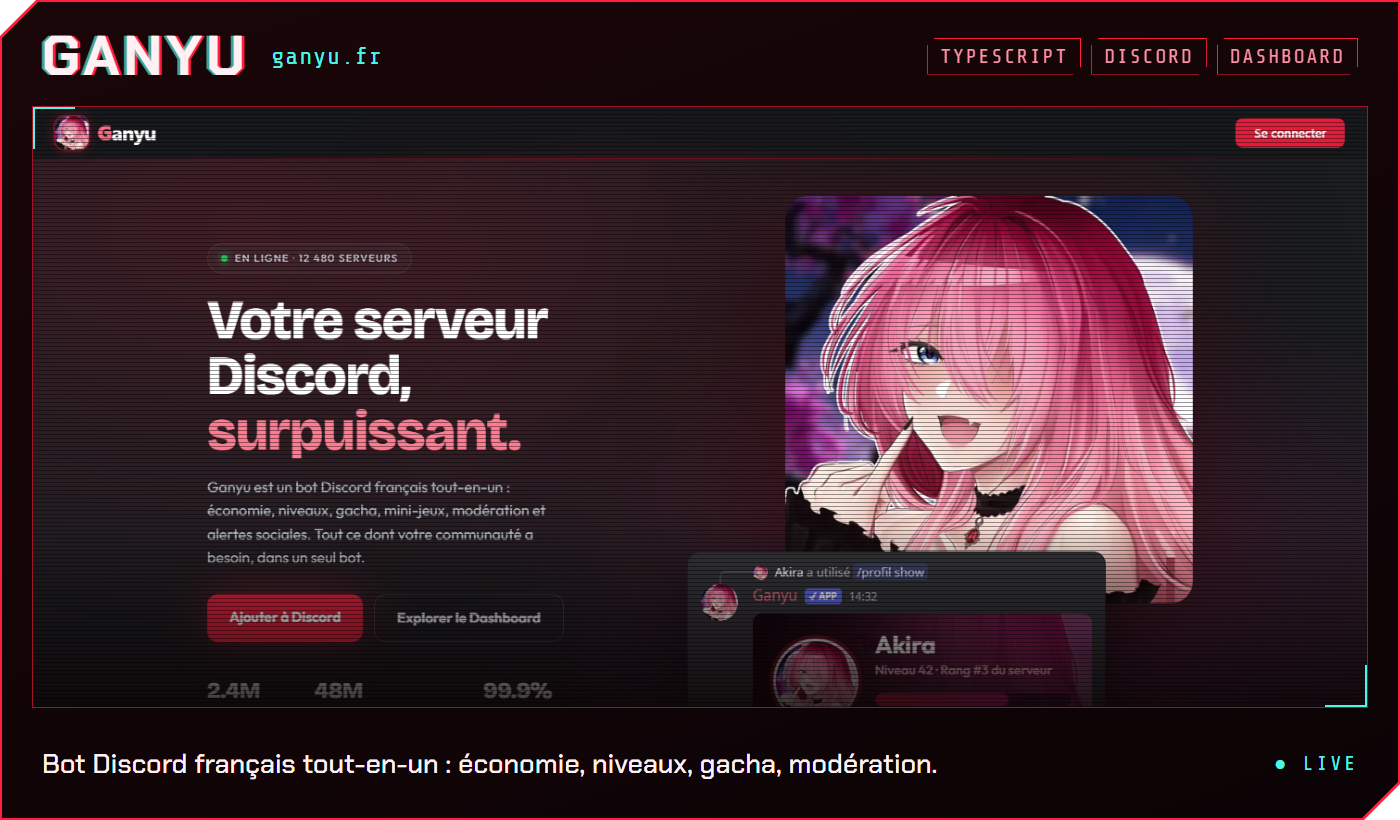
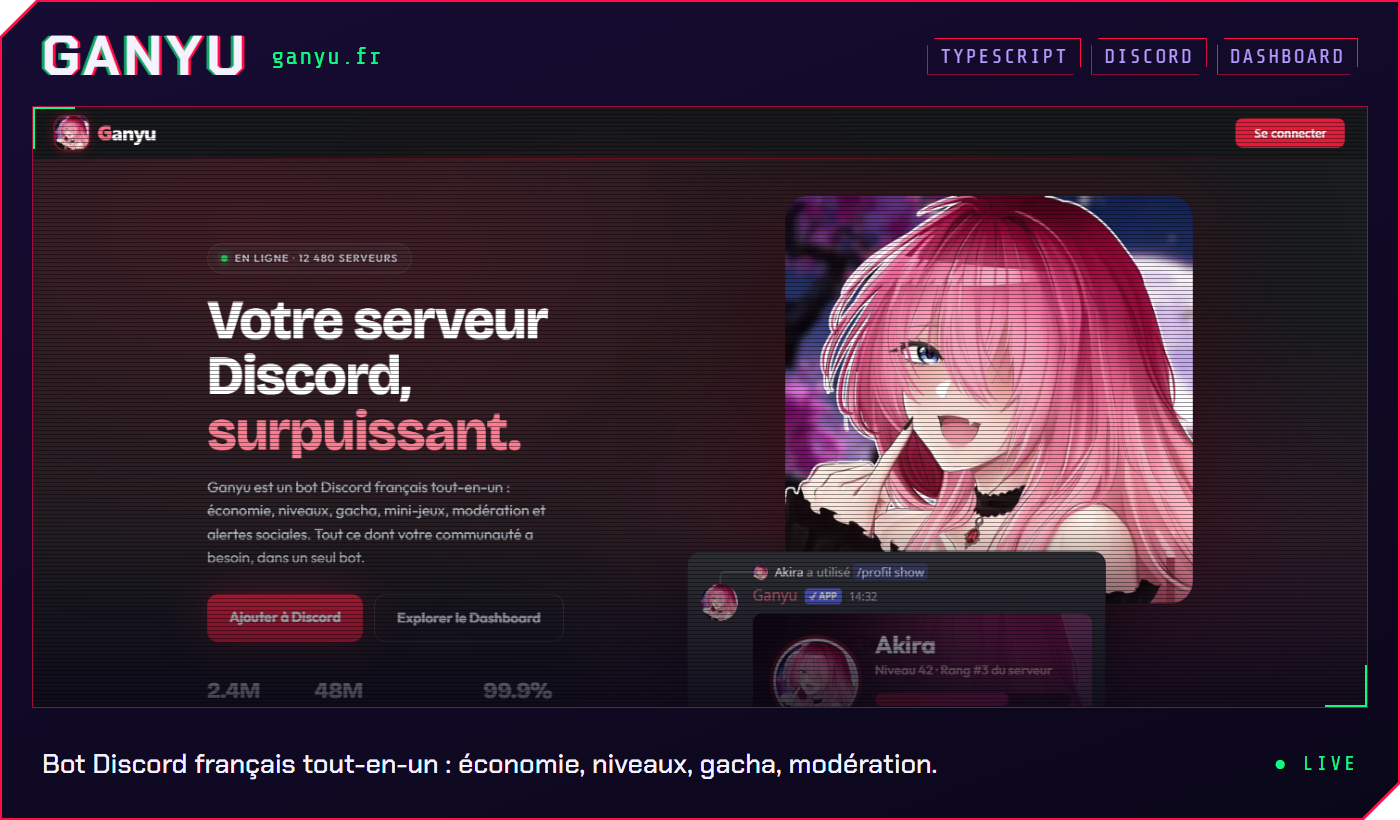
style: recolor project cards to new palette (purple/neon green)

Changed region(s): [[0.0, 0.0, 1.0, 1.0], [0.9214, 0.9146, 0.9829, 0.9451]]

diff --git a/README.md b/README.md
@@ -11,15 +11,15 @@
 <img src="assets/section-projets.svg?v=5" alt="Projets" width="100%" />
 
 <p align="center">
-  <a href="https://ganyu.fr"><img src="assets/project-ganyu.png?v=5" alt="ganyu.fr — Bot Discord français tout-en-un" width="100%" /></a>
+  <a href="https://ganyu.fr"><img src="assets/project-ganyu.png?v=6" alt="ganyu.fr — Bot Discord français tout-en-un" width="100%" /></a>
 </p>
 
 <p align="center">
-  <a href="https://karamon.fr"><img src="assets/project-karamon.png?v=5" alt="karamon.fr — Serveur Minecraft Cobblemon francophone" width="100%" /></a>
+  <a href="https://karamon.fr"><img src="assets/project-karamon.png?v=6" alt="karamon.fr — Serveur Minecraft Cobblemon francophone" width="100%" /></a>
 </p>
 
 <p align="center">
-  <a href="https://vskstudio.fr"><img src="assets/project-vsk.png?v=5" alt="vskstudio.fr — Studio de développement web sur-mesure" width="100%" /></a>
+  <a href="https://vskstudio.fr"><img src="assets/project-vsk.png?v=6" alt="vskstudio.fr — Studio de développement web sur-mesure" width="100%" /></a>
 </p>
 
 <img src="assets/section-opensource.svg?v=5" alt="Open source" width="100%" />
